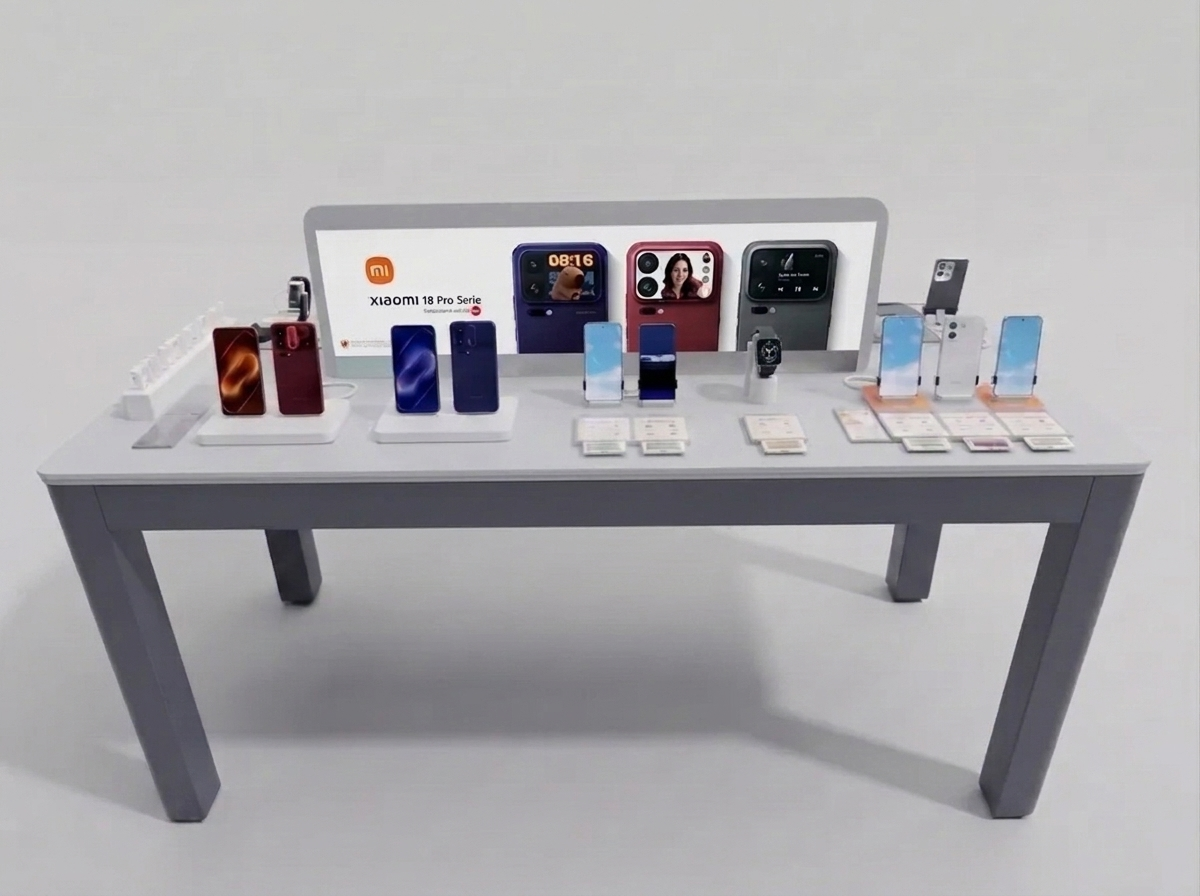
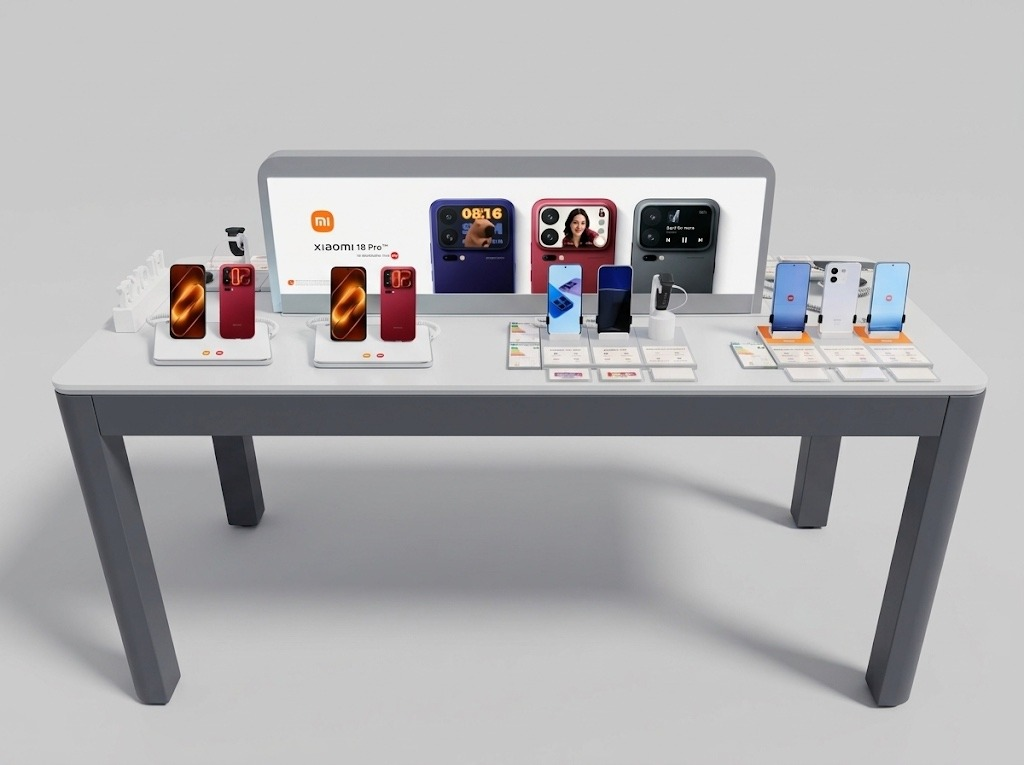
feat(implantacion): cambiar cubrecestas de Sant Antoni a Maquinista y actualizar imagen Table 1 sin Xiaomi Clip

Changed region(s): [[0.0312, 0.1804, 0.9688, 0.9922], [0.0938, 0.7216, 0.125, 0.8418], [0.0, 0.8418, 0.0938, 0.902]]

diff --git a/src/data/implantationCampaignData.ts b/src/data/implantationCampaignData.ts
@@ -850,8 +850,8 @@ export const getImplantationPositionSpecsForStore = (
           color: p1Dummy ? 'Red / Burgundy (Maqueta)' : 'Red / Burgundy',
           dummy: p1Dummy,
           category: 'Smartphone',
-          pinX: 19.5,
-          pinY: 53.5,
+          pinX: 18.2,
+          pinY: 51.5,
           isNewInstall: true,
           previousPosNum: 1,
           modeloSaliente: 'Xiaomi 17 Ultra Green',
@@ -863,8 +863,8 @@ export const getImplantationPositionSpecsForStore = (
           color: p2Dummy ? 'Red / Burgundy (Maqueta)' : 'Red / Burgundy',
           dummy: p2Dummy,
           category: 'Smartphone',
-          pinX: 24.5,
-          pinY: 53.5,
+          pinX: 23.2,
+          pinY: 51.5,
           isNewInstall: true,
           previousPosNum: 2,
           modeloSaliente: 'Xiaomi 17 Blue',
@@ -876,8 +876,8 @@ export const getImplantationPositionSpecsForStore = (
           color: p3Dummy ? 'Purple / Blue (Maqueta)' : 'Purple / Blue',
           dummy: p3Dummy,
           category: 'Smartphone',
-          pinX: 34.5,
-          pinY: 53.5,
+          pinX: 34.0,
+          pinY: 51.5,
           isNewInstall: true,
           previousPosNum: 3,
           modeloSaliente: 'Xiaomi 17 Ultra Black',
@@ -889,8 +889,8 @@ export const getImplantationPositionSpecsForStore = (
           color: p4Dummy ? 'Purple / Blue (Maqueta)' : 'Purple / Blue',
           dummy: p4Dummy,
           category: 'Smartphone',
-          pinX: 39.5,
-          pinY: 53.5,
+          pinX: 39.0,
+          pinY: 51.5,
           isNewInstall: true,
           previousPosNum: 4,
           modeloSaliente: 'Xiaomi 17 Black',
@@ -902,8 +902,8 @@ export const getImplantationPositionSpecsForStore = (
           color: 'Blue',
           dummy: false,
           category: 'Smartphone',
-          pinX: 50.2,
-          pinY: 53.5,
+          pinX: 55.2,
+          pinY: 51.5,
           isNewInstall: false,
           previousPosNum: 7
         },
@@ -913,8 +913,8 @@ export const getImplantationPositionSpecsForStore = (
           color: 'Purple',
           dummy: false,
           category: 'Smartphone',
-          pinX: 55.2,
-          pinY: 53.5,
+          pinX: 60.0,
+          pinY: 51.5,
           isNewInstall: false,
           previousPosNum: 8
         },
@@ -924,8 +924,8 @@ export const getImplantationPositionSpecsForStore = (
           color: 'Black',
           dummy: false,
           category: 'Wearable',
-          pinX: 63.8,
-          pinY: 53.5,
+          pinX: 64.8,
+          pinY: 51.5,
           isNewInstall: true,
           previousPosNum: 5,
           modeloSaliente: 'Xiaomi Smart Band 10 Pro',
@@ -937,8 +937,8 @@ export const getImplantationPositionSpecsForStore = (
           color: 'White & Orange',
           dummy: false,
           category: 'Smartphone',
-          pinX: 74.8,
-          pinY: 53.5,
+          pinX: 77.0,
+          pinY: 51.5,
           isNewInstall: false,
           previousPosNum: 10
         },
@@ -948,8 +948,8 @@ export const getImplantationPositionSpecsForStore = (
           color: 'White & Orange (Maqueta)',
           dummy: true,
           category: 'Smartphone',
-          pinX: 80.2,
-          pinY: 53.5,
+          pinX: 82.0,
+          pinY: 51.5,
           isNewInstall: false,
           previousPosNum: 11
         },
@@ -959,8 +959,8 @@ export const getImplantationPositionSpecsForStore = (
           color: 'Green',
           dummy: false,
           category: 'Smartphone',
-          pinX: 85.8,
-          pinY: 53.5,
+          pinX: 87.0,
+          pinY: 51.5,
           isNewInstall: false,
           previousPosNum: 12
         }

diff --git a/src/data/storePosmData.ts b/src/data/storePosmData.ts
@@ -1847,7 +1847,7 @@ export const getPosmElementsForStore = (storeId?: string): StorePosmItem[] => {
 /**
  * Determina si una tienda pertenece al listado exclusivo de centros MediaMarkt
  * que llevan el apartado "Cubrecestas" de Xiaomi 18 Pro en POSM:
- * - Media Sant Antoni (Media Barcelona)
+ * - Media Maquinista
  * - Media Girona
  * - Media Barcelona 5 Fontanella
  * - Media Tarragona
@@ -1861,7 +1861,7 @@ export const getPosmElementsForStore = (storeId?: string): StorePosmItem[] => {
  * - Media Terrassa
  */
 const CUBRECESTAS_EXCLUSIVE_STORE_IDS = new Set<string>([
-  'MIESD00575', // Media Sant Antoni (Media Barcelona)
+  'MIESD00176', // Media Maquinista
   'MIESD00182', // Media Girona
   'MIESD00174', // Media Barcelona 5 Fontanella
   'MIESO00043', // Media Tarragona
@@ -1876,8 +1876,8 @@ const CUBRECESTAS_EXCLUSIVE_STORE_IDS = new Set<string>([
 ]);
 
 const CUBRECESTAS_EXCLUSIVE_STORE_NAMES = new Set<string>([
-  'media sant antoni',
-  'media barcelona',
+  'media maquinista',
+  'mediamarkt maquinista',
   'media girona',
   'media barcelona 5 fontanella',
   'media fontanella',
